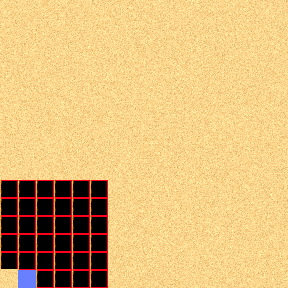
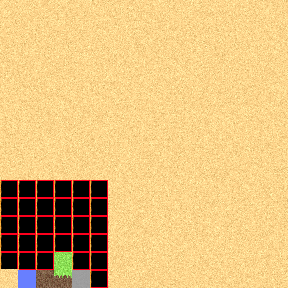
add multitexture blocks and some more worldgen

Changed region(s): [[0.125, 0.875, 0.3125, 1.0]]

diff --git a/src/game/voxelworld.cpp b/src/game/voxelworld.cpp
@@ -131,6 +131,15 @@ void VoxelWorld::rebuildChunk(BlockChunk &chunk, ChunkCoord newPosition) {
     int startZ = chunk.position.z * chunkWidth;
     int startY = 0;
 
+    enum Neighbors  {
+        LEFT,
+        RIGHT,
+        FRONT,
+        BACK,
+        TOP,
+        BOTTOM
+    };
+
     //left right forward backward up down
     static std::vector<BlockCoord> neighbors = {
         BlockCoord(-1, 0, 0),
@@ -199,10 +208,31 @@ void VoxelWorld::rebuildChunk(BlockChunk &chunk, ChunkCoord newPosition) {
     }
     };
 
-    static std::vector<TextureFace> texs = {
-        TextureFace(0,0), //0 placeholder
+    static std::vector<std::vector<TextureFace>> texs = {
+        {TextureFace(0,0),//top
+        TextureFace(0,0),//sides
+        TextureFace(0,0),//bottom
+        }, 
+        {TextureFace(0,0),
         TextureFace(0,0),
-        TextureFace(1,0)
+        TextureFace(0,0),
+        }, 
+        {TextureFace(1,0),
+        TextureFace(1,0),
+        TextureFace(1,0),
+        }, 
+        {TextureFace(3,1),
+        TextureFace(3,0),
+        TextureFace(2,0),
+        }, 
+        {TextureFace(2,0),
+        TextureFace(2,0),
+        TextureFace(2,0),
+        },
+        {TextureFace(4,0),
+        TextureFace(4,0),
+        TextureFace(4,0),
+        }
     };
 
 
@@ -236,15 +266,37 @@ void VoxelWorld::rebuildChunk(BlockChunk &chunk, ChunkCoord newPosition) {
                                     faces[neighborIndex][16]+coord.x,faces[neighborIndex][17]+coord.y, faces[neighborIndex][18]+coord.z, faces[neighborIndex][19],
                                     faces[neighborIndex][20]+coord.x,faces[neighborIndex][21]+coord.y, faces[neighborIndex][22]+coord.z, faces[neighborIndex][23],
                                 });
-                                tuvs.insert(tuvs.end() , {
-                                    texs[block].bl.x, texs[block].bl.y,
-                                    texs[block].br.x, texs[block].br.y,
-                                    texs[block].tr.x, texs[block].tr.y,
+                                if(neighborIndex == TOP) {
+                                    tuvs.insert(tuvs.end() , {
+                                        texs[block][0].bl.x, texs[block][0].bl.y,
+                                        texs[block][0].br.x, texs[block][0].br.y,
+                                        texs[block][0].tr.x, texs[block][0].tr.y,
 
-                                    texs[block].tr.x, texs[block].tr.y,
-                                    texs[block].tl.x, texs[block].tl.y,
-                                    texs[block].bl.x, texs[block].bl.y
-                                });
+                                        texs[block][0].tr.x, texs[block][0].tr.y,
+                                        texs[block][0].tl.x, texs[block][0].tl.y,
+                                        texs[block][0].bl.x, texs[block][0].bl.y
+                                    });
+                                } else if(neighborIndex == BOTTOM) {
+                                    tuvs.insert(tuvs.end() , {
+                                        texs[block][2].bl.x, texs[block][2].bl.y,
+                                        texs[block][2].br.x, texs[block][2].br.y,
+                                        texs[block][2].tr.x, texs[block][2].tr.y,
+
+                                        texs[block][2].tr.x, texs[block][2].tr.y,
+                                        texs[block][2].tl.x, texs[block][2].tl.y,
+                                        texs[block][2].bl.x, texs[block][2].bl.y
+                                    });
+                                } else {
+                                    tuvs.insert(tuvs.end() , {
+                                        texs[block][1].bl.x, texs[block][1].bl.y,
+                                        texs[block][1].br.x, texs[block][1].br.y,
+                                        texs[block][1].tr.x, texs[block][1].tr.y,
+
+                                        texs[block][1].tr.x, texs[block][1].tr.y,
+                                        texs[block][1].tl.x, texs[block][1].tl.y,
+                                        texs[block][1].bl.x, texs[block][1].bl.y
+                                    });
+                                }
                             }
                             neighborIndex++;
                         }
@@ -265,15 +317,37 @@ void VoxelWorld::rebuildChunk(BlockChunk &chunk, ChunkCoord newPosition) {
                                     faces[neighborIndex][16]+coord.x,faces[neighborIndex][17]+coord.y, faces[neighborIndex][18]+coord.z, faces[neighborIndex][19],
                                     faces[neighborIndex][20]+coord.x,faces[neighborIndex][21]+coord.y, faces[neighborIndex][22]+coord.z, faces[neighborIndex][23],
                                 });
-                                uvs.insert(uvs.end() , {
-                                    texs[block].bl.x, texs[block].bl.y,
-                                    texs[block].br.x, texs[block].br.y,
-                                    texs[block].tr.x, texs[block].tr.y,
+                                if(neighborIndex == TOP) {
+                                    uvs.insert(uvs.end() , {
+                                        texs[block][0].bl.x, texs[block][0].bl.y,
+                                        texs[block][0].br.x, texs[block][0].br.y,
+                                        texs[block][0].tr.x, texs[block][0].tr.y,
 
-                                    texs[block].tr.x, texs[block].tr.y,
-                                    texs[block].tl.x, texs[block].tl.y,
-                                    texs[block].bl.x, texs[block].bl.y
-                                });
+                                        texs[block][0].tr.x, texs[block][0].tr.y,
+                                        texs[block][0].tl.x, texs[block][0].tl.y,
+                                        texs[block][0].bl.x, texs[block][0].bl.y
+                                    });
+                                } else if(neighborIndex == BOTTOM) {
+                                    uvs.insert(uvs.end() , {
+                                        texs[block][2].bl.x, texs[block][2].bl.y,
+                                        texs[block][2].br.x, texs[block][2].br.y,
+                                        texs[block][2].tr.x, texs[block][2].tr.y,
+
+                                        texs[block][2].tr.x, texs[block][2].tr.y,
+                                        texs[block][2].tl.x, texs[block][2].tl.y,
+                                        texs[block][2].bl.x, texs[block][2].bl.y
+                                    });
+                                } else {
+                                    uvs.insert(uvs.end() , {
+                                        texs[block][1].bl.x, texs[block][1].bl.y,
+                                        texs[block][1].br.x, texs[block][1].br.y,
+                                        texs[block][1].tr.x, texs[block][1].tr.y,
+
+                                        texs[block][1].tr.x, texs[block][1].tr.y,
+                                        texs[block][1].tl.x, texs[block][1].tl.y,
+                                        texs[block][1].bl.x, texs[block][1].bl.y
+                                    });
+                                }
                             }
                             neighborIndex++;
                         }
@@ -353,6 +427,7 @@ void VoxelWorld::rebuildChunk(BlockChunk &chunk, ChunkCoord newPosition) {
 
 
 unsigned int VoxelWorld::blockAt(BlockCoord coord) {
+    static int waterLevel = 20;
     ChunkCoord chunkcoord(
         static_cast<int>(std::floor(static_cast<float>(coord.x)/chunkWidth)), 
         static_cast<int>(std::floor(static_cast<float>(coord.z)/chunkWidth))
@@ -365,9 +440,19 @@ unsigned int VoxelWorld::blockAt(BlockCoord coord) {
         }
     }
     if(noiseFunction(coord.x, coord.y, coord.z) > 10) {
-        return 1; //replace this with a "getWorldBlock" function later
+        if(noiseFunction(coord.x, coord.y+10, coord.z) > 10) {
+            return 5;
+        }
+        if(coord.y > waterLevel + 2 || noiseFunction(coord.x, coord.y+5, coord.z) > 10) {
+            if(noiseFunction(coord.x, coord.y+1, coord.z) < 10) {
+                        return 3;
+                    }
+            return 4;
+        } else {
+            return 1;
+        }
     }
-    if(coord.y < 20) {
+    if(coord.y < waterLevel) {
         return 2;
     }
     return 0;
